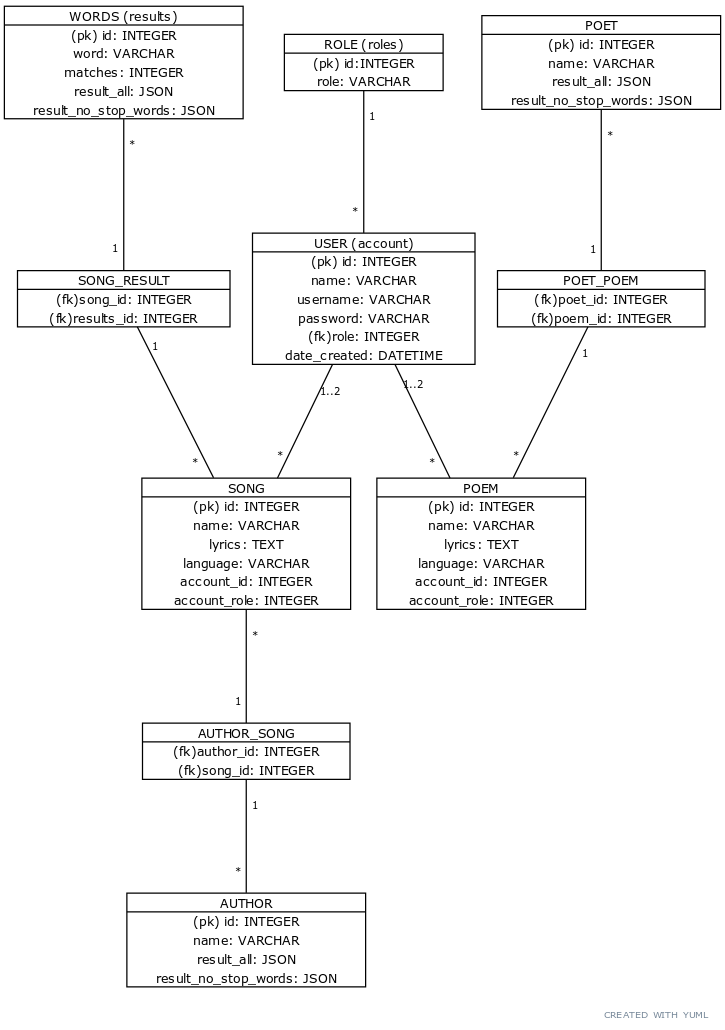
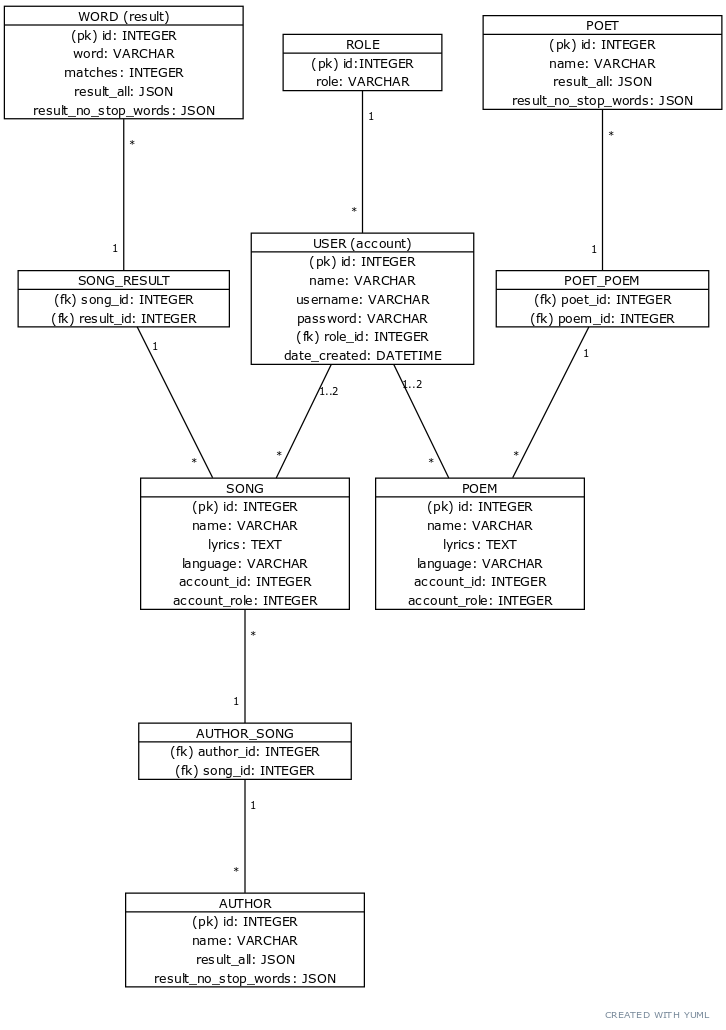
Small fixes here and there
Mainly changed plural table names to singular names. Last peer reviewer
asked for making all the table names in same format.

Modified lots of tiny details because of table name politics change.

diff --git a/application/templates/admin/dashboard.html b/application/templates/admin/dashboard.html
@@ -31,11 +31,11 @@
         <td colspan="6">
           <b style="float: left; margin-right:10px;">{{ user.id }}.</b>
         </td>
-        {% if user.role == 1 %}
+        {% if user.role_id == 1 %}
           <td><a style="color: red;margin-right:20px;">{{ user.name }}</a></td>
           <td><a style="color: red;margin-right:10px;">{{ user.username }}</a></td>
           <td><a style="color: red;margin-right:10px;">{{ user.date_created['day'] }}.{{ user.date_created['month'] }}.{{ user.date_created['year'] }}</a></td>
-        {% elif user.role == 2 %}
+        {% elif user.role_id == 2 %}
           <td><a style="color: green;margin-right:20px;">{{ user.name }}</a></td>
           <td><a style="color: green;margin-right:10px;">{{ user.username }}</a></td>
           <td><a style="color: green;margin-right:10px;">{{ user.date_created['day'] }}.{{ user.date_created['month'] }}.{{ user.date_created['year'] }}</a></td>
@@ -61,11 +61,11 @@
           <form method="POST" action="{{ url_for('user_adminate', user_id=user.id) }}">
             <input type="hidden" name="user_id" value="{{ user.id }}"></input>
             <div class="col-auto">
-              {% if user.role == 1 %}
+              {% if user.role_id == 1 %}
               <button class="btn btn-sm btn-secondary" type="submit" name="userate" style="background-color: red; width:60px;" value="userate">ADMIN</button>
-              {% elif user.role == 2 %}
+              {% elif user.role_id == 2 %}
               <button class="btn btn-sm btn-secondary" type="submit" name="adminate" style="width:60px;" value="adminate">GUEST</button>
-              {% elif user.role == 3 %}
+              {% elif user.role_id == 3 %}
               <button class="btn btn-sm btn-secondary" type="submit" name="adminate" style="width:60px;" value="adminate">USER</button>
               {% endif %}
             </div>

diff --git a/application/templates/auth/stats.html b/application/templates/auth/stats.html
@@ -11,7 +11,7 @@
 {% endfor %}<br>
 
 <!-- PROGRESSBAR FOR ADDING SONGS OR POEMS - ADMIN ONLY -->
-{% if g.user.role == 1 and load != 'na' %}
+{% if g.user.role_id == 1 and load != 'na' %}
   {% if load == 'poem' %}
     <script>
       var source_poems = new EventSource("/progress_poems");
@@ -48,6 +48,8 @@
       <span class="progress-bar-label">0%</span>
     </div>
   </div>
+  
+  <div>When the progressbar is full, click the Stats button.</div>
 {% endif %}
 
 {% if db_songs_status is none and db_poems_status is none %}
@@ -103,7 +105,7 @@
 
 {% endif %}
 
-{% if top_words is not none and g.user.role != 1 %}
+{% if top_words is not none and g.user.role_id != 1 %}
   <strong id="big-strong">TOP 5 search words</strong>
   <div id="averages">
     <table class="table table-striped" style="max-width: 1000px;">

diff --git a/application/templates/layout.html b/application/templates/layout.html
@@ -203,7 +203,7 @@
 
 <!-- FOR ADMIN ONLY -->
 
-{% if g.user.role == 1 %}
+{% if g.user.role_id == 1 %}
 
   <div class="d-flex bg-dark">
 
@@ -213,6 +213,7 @@
         <button class="btn btn-sm btn-primary" type="submit" name="listusers" id="listusers" value="listusers" aria-label="List users">List users</button>
       </form>
     </div>
+
 
     <div class="d-flex p-2 ml-auto align-self-center" style="margin-right: 50px;">
       <div class="btn-group" role="group" style="margin-right: 10px;">

diff --git a/application/templates/poets/show.html b/application/templates/poets/show.html
@@ -24,7 +24,7 @@
       <button class="btn btn-sm btn-secondary" type="submit" name="Back" style="width:75px;" value="Back"/>Back</button>
 
       <!-- 'SAVE TO DATABASE' BUTTON -->
-      {% if g.user.role != 2 %}
+      {% if g.user.role_id != 2 %}
       <button class="btn btn-sm btn-danger" type="submit" style="width: 140px; float: right; margin-left: 20px;" name="save" id="save" value="{{ filtered }},{{ graphs }}" action="/poets/show/<poet_id>">Save To Database</button>
       {% endif %}
 

diff --git a/application/templates/authors/show.html b/application/templates/authors/show.html
@@ -22,7 +22,7 @@
   
       <button class="btn btn-sm btn-secondary" type="submit" name="Back" style="width:75px;" value="Back"/>Back</button>
 
-      {% if g.user.role != 2 %}
+      {% if g.user.role_id != 2 %}
       <button class="btn btn-sm btn-danger" type="submit" style="width: 140px; float: right; margin-left: 20px;" name="save" id="save" value="{{ filtered }},{{ graphs }}" action="/authors/show/<author_id>">Save To Database</button>
       {% endif %}
 

diff --git a/application/templates/words/words.html b/application/templates/words/words.html
@@ -34,7 +34,7 @@
   <form method="POST" action="{{ url_for('words_find') }}">
     <div class="col-auto">
 
-      {% if g.user.role != 2 %}
+      {% if g.user.role_id != 2 %}
       <button class="btn btn-sm btn-danger" type="submit" style="width: 140px; float: right; margin-left: 20px;" name="save" id="save" value="{{  word  }},{{ language }},{{ filtered }},{{ material }}" action="/words/find/">Save To Database</button>
       {% endif %}
 

diff --git a/application/templates/authors/graph.html b/application/templates/authors/graph.html
@@ -20,7 +20,7 @@
   <form method="POST" action="{{ url_for('authors_graph') }}">
     <div class="col-auto">
 
-      {% if g.user.role != 2 %}
+      {% if g.user.role_id != 2 %}
       <button class="btn btn-sm btn-danger" type="submit" style="width: 140px; float: right; margin-left: 20px;" name="save" id="save" value="{{ filtered }},{{ graphs }}" action="/authors/show/<author_id>">Save To Database</button>
       {% endif %}
 

diff --git a/application/templates/poets/graph.html b/application/templates/poets/graph.html
@@ -20,7 +20,7 @@
   <form method="POST" action="{{ url_for('poets_graph') }}">
     <div class="col-auto">
 
-      {% if g.user.role != 2 %}
+      {% if g.user.role_id != 2 %}
       <button class="btn btn-sm btn-danger" type="submit" style="width: 140px; float: right; margin-left: 20px;" name="save" id="save" value="{{ filtered }},{{ graphs }}" action="/poets/show/<poet_id>">Save To Database</button>
       {% endif %}
 

diff --git a/application/templates/index.html b/application/templates/index.html
@@ -31,8 +31,7 @@
 
     You may also create your own account via registration (create account).<br><br>
 
-	At the moment this application only holds copyright free religious
-	lyrics, because this a university course project.
+	At the moment this application only holds copyright free religious lyrics and 19th century poems, because this a university course project.
     
   </p>
 

diff --git a/application/words/proc.py b/application/words/proc.py
@@ -9,14 +9,15 @@ nltk.download('punkt')
 from application.words import ownstops
 from collections import Counter
 
-from application import db, login_manager
-from application.words.models import Words
+from application import db, login_manager, login_required
+from application.words.models import Word
 from application.songs.models import Song
 
 from sqlalchemy.exc import IntegrityError, SQLAlchemyError
 
 
 # raw words count
+@login_required(roles=[1,2,3])
 def proc_text(song_list, word_to_find, graph):
 
 	text_list = [] # [ song_id, lyrics, song_name ]
@@ -75,6 +76,7 @@ def proc_text(song_list, word_to_find, graph):
 
 
 # stop words
+@login_required(roles=[1,2,3])
 def stop_words(filtered, new_raw_words_list, language, graph):
 
 	# stops = stopwords.words(language)
@@ -126,6 +128,7 @@ def stop_words(filtered, new_raw_words_list, language, graph):
 #-----------------------------------------
 # create results: (songs,) graph_data
 #-----------------------------------------
+@login_required(roles=[1,2,3])
 def create_results(new_songlist, graph_list, word_to_find):
 
 	if word_to_find is not None:
@@ -170,6 +173,7 @@ def create_results(new_songlist, graph_list, word_to_find):
 #-----------------------------------------
 # create results: graph_data, (table_data)
 #-----------------------------------------
+@login_required(roles=[1,2,3])
 def create_results_graph(graph_list, graph, limit):
 
 	#----------------------------------------
@@ -210,16 +214,14 @@ def create_results_graph(graph_list, graph, limit):
 #-----------------------------------------
 # database storing for search word results
 #-----------------------------------------
+@login_required(roles=[1,3])
 def store_search_word(raw_word_count, db_words_list, word_to_find, counts):
 	errors = []
-
-	if g.user.role == "GUEST":
-		return login_manager.unauthorized()
 
 	# database
 	for i in range(len(raw_word_count)):
 		try:
-			result = Words(
+			result = Word(
 				word = word_to_find.lower(),
 				matches = counts[i],
 				result_all = raw_word_count[i],
@@ -242,11 +244,9 @@ def store_search_word(raw_word_count, db_words_list, word_to_find, counts):
 #-----------------------------------------
 # database storing for author words results
 #-----------------------------------------
+@login_required(roles=[1,3])
 def store_author_words(author, raw_word_count, db_words_list, counts, auteur):
 	errors = []
-
-	if g.user.role == "GUEST":
-		return login_manager.unauthorized()
 
 	# database
 	for i in range(len(raw_word_count)):
@@ -265,6 +265,7 @@ def store_author_words(author, raw_word_count, db_words_list, counts, auteur):
 
 
 # difficult accent for word frequency tables html in authors/graph page
+@login_required(roles=[1,2,3])
 def replace_for_table(list):
 	for n, item in enumerate(list):
 		if "\´" in item:
@@ -275,6 +276,7 @@ def replace_for_table(list):
 
 
 # difficult accent for Source(s) lyrics html in Results page
+@login_required(roles=[1,2,3])
 def replace_graph(list):
 	for n, item in enumerate(list):
 		if "\'" in item:

diff --git a/application/words/models.py b/application/words/models.py
@@ -10,9 +10,9 @@ from sqlalchemy.sql import text
 def before_request():
 	g.user = current_user
 
-class Words(db.Model):
+class Word(db.Model):
 
-	__tablename__ = 'results'
+	__tablename__ = 'result'
 
 	id = db.Column(db.Integer, primary_key=True)
 	word = db.Column(db.String(255), nullable=False)
@@ -30,16 +30,17 @@ class Words(db.Model):
 	def find_words():
 
 		stmt1 = text("SELECT "
-					"	DISTINCT results.word, "
+					"	DISTINCT result.word, "
                     "	COUNT(Song.id) AS w_count, "
-					"	SUM(results.matches) "
-					"FROM results "
-					"JOIN song_result ON song_result.results_id = results.id "
+					"	SUM(result.matches) "
+					"FROM result "
+					"JOIN song_result ON song_result.result_id = result.id "
 					"JOIN Song ON Song.id = song_result.song_id "
 					"JOIN account ON account.id = Song.account_id "
+					"AND account.role_id = Song.account_role "
 					"WHERE account_id = :userid OR account_role = :accrole "
-					"GROUP BY results.word "
-					"ORDER BY SUM(results.matches) DESC "
+					"GROUP BY result.word "
+					"ORDER BY SUM(result.matches) DESC "
 					"LIMIT :limit").params(userid=g.user.id,accrole=1, limit=5)
 		res1 = db.engine.execute(stmt1)
 		response1 = []
@@ -54,23 +55,24 @@ class Words(db.Model):
 		stmt2 = text("SELECT "
                     "	co.matches, "
                     "	co.average, "
-					"	results.word "
-					"FROM results "
+					"	result.word "
+					"FROM result "
 					"INNER JOIN ( "
 					"	SELECT "
-					"		DISTINCT results.word AS words, "
-					"		SUM(results.matches) AS matches, "
-					"		ROUND( AVG(results.matches), 1 ) AS average "
-					"	FROM results "
-					"	JOIN song_result ON song_result.results_id = results.id "
+					"		DISTINCT result.word AS words, "
+					"		SUM(result.matches) AS matches, "
+					"		ROUND( AVG(result.matches), 1 ) AS average "
+					"	FROM result "
+					"	JOIN song_result ON song_result.result_id = result.id "
 					"	JOIN Song ON Song.id = song_result.song_id "
 					"	JOIN account ON account.id = Song.account_id "
+					"	AND account.role_id = Song.account_role "
 					"	WHERE account_id = :userid OR account_role = :accrole "
-					"	GROUP BY results.word "
+					"	GROUP BY result.word "
 					"	ORDER BY matches DESC "
 					") as co "
-					"ON co.words = results.word "
-					"GROUP BY co.matches, co.words, results.word, co.average "
+					"ON co.words = result.word "
+					"GROUP BY co.matches, co.words, result.word, co.average "
 					"ORDER BY co.matches DESC "
 					"LIMIT :limit").params(userid=g.user.id,accrole=1, limit=5)
 		res2 = db.engine.execute(stmt2)

diff --git a/application/words/views.py b/application/words/views.py
@@ -6,7 +6,7 @@ from sqlalchemy import or_
 from application import app, db, login_manager, login_required
 from application.songs.models import Song
 from application.poems.models import Poem
-from application.words.models import Words
+from application.words.models import Word
 from application.words.proc import proc_text, stop_words, create_results, store_search_word
 
 
@@ -132,7 +132,7 @@ def words_find():
 	#-------------------------------------------------------
 	errors = []
 	
-	if save == True and tot_count > 0 and Words.query.filter_by(word=word_to_find).first() is None:
+	if save == True and tot_count > 0 and Word.query.filter_by(word=word_to_find).first() is None:
 		# counts per song
 		counts = []
 		for item in frequencies:
@@ -140,7 +140,7 @@ def words_find():
 
 		errors = store_search_word(raw_word_count, db_words_list, word_to_find, counts)
 
-	elif save == True and tot_count > 0 and Words.query.filter_by(word=word_to_find).first() is not None:
+	elif save == True and tot_count > 0 and Word.query.filter_by(word=word_to_find).first() is not None:
 		errors.append("Results already in the database.")
 		flash("Results not added to results database.", "warning")
 
@@ -150,11 +150,11 @@ def words_find():
 # own stopwords
 @login_required(roles=[1,2,3])
 def replace_chars(text):
-	for ch in ['\\n','V1','V2','V3','V4','V5','V6','V7','V8','V9','V10','B1','B2','B3','B4','B5','B6','B7','B8','B9','B10','C1','C2','C3','C4','C5','C6','C7','C8','C9','C10','P1','P2','P3','P4','P5','P6','P7','P8','P9','P10'," I "," II "," III "," IV "," V "," VI "," VII "," VIII "," IX "," X ",'\'n','\n','\'n\'n','\'r','\'r\'n',"'ll","'s","'d","'t"]:
+	for ch in ['\\n','V1','V2','V3','V4','V5','V6','V7','V8','V9','V10','B1','B2','B3','B4','B5','B6','B7','B8','B9','B10','C1','C2','C3','C4','C5','C6','C7','C8','C9','C10','P1','P2','P3','P4','P5','P6','P7','P8','P9','P10',"I ","II ","III ","IV ","V ","VI ","VII ","VIII ","IX ","X ",'\'n','\n','\'n\'n','\'r','\'r\'n',"'ll","'s","'d","'t"]:
 		if ch == "œ" and ch in text:
 			text = text.replace(ch,"oe")
 		if ch in text:
-			text = text.replace(ch,"")
+			text = text.replace(ch," ")
 	return text
 
 
